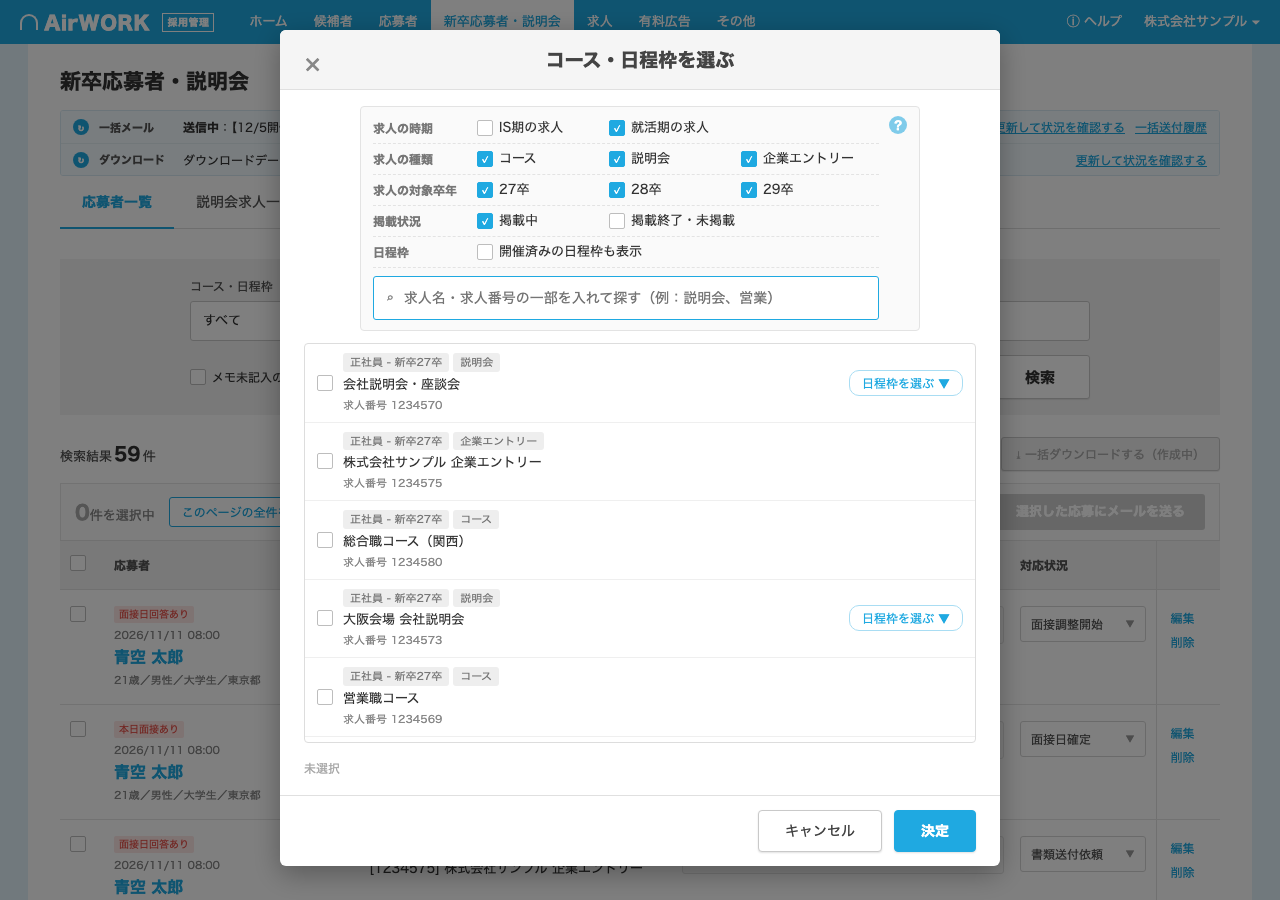
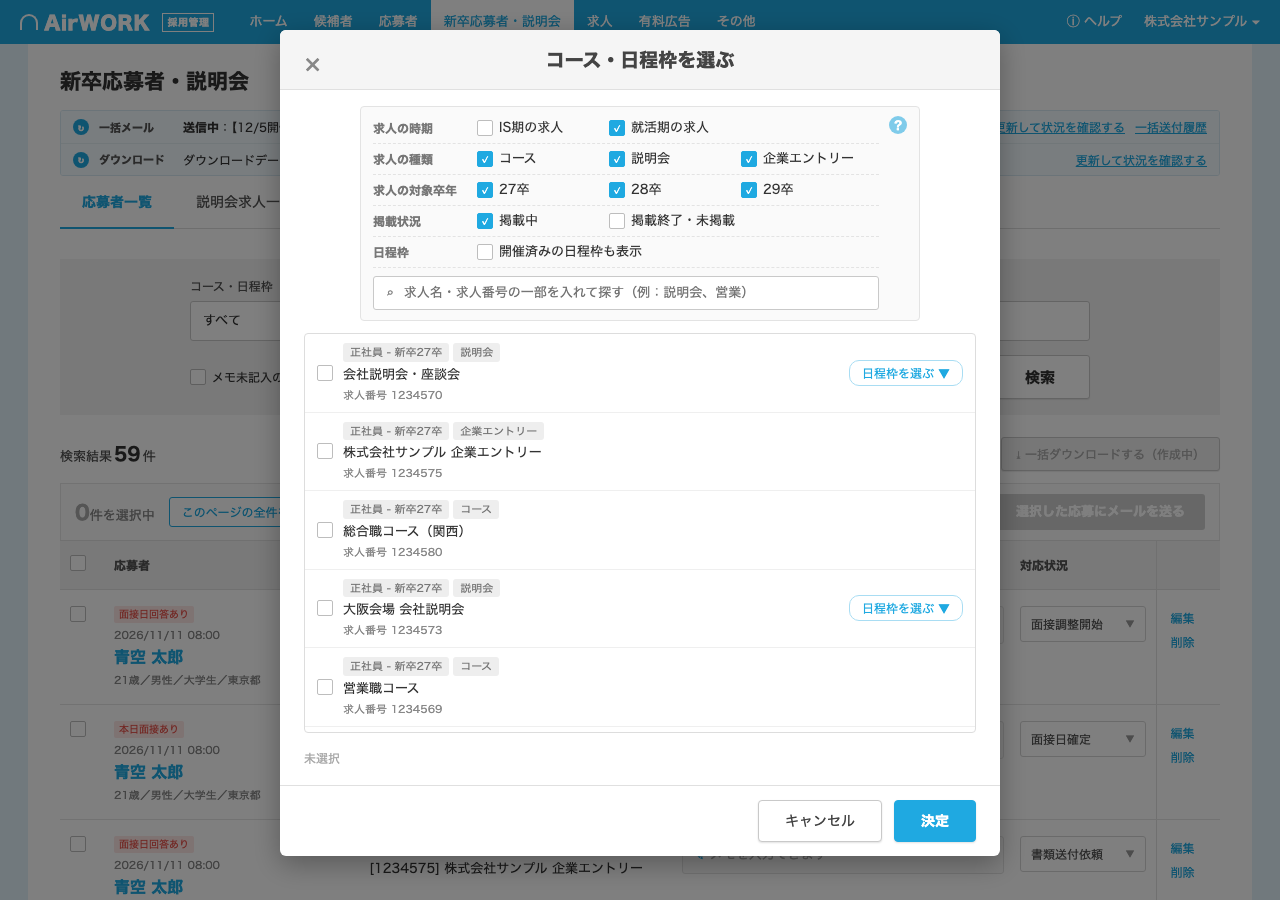
モーダルの検索窓を低く、グレー枠に

diff --git a/style.css b/style.css
@@ -363,7 +363,8 @@ body.dirty table, body.dirty .pager, body.dirty .pinfo, body.dirty .empty { opac
 .mtop { width: 560px; margin: 0 auto; }
 .mtop .desc { text-align: center; margin-left: -56px; margin-right: -56px; }
 .fbox .tools { margin: 0 0 4px; padding-top: 8px; border-top: 1px dashed #E3E3E3; }
-.fbox .srch.big { background: #FFF; }
+.fbox .srch.big { background: #FFF; height: 34px; border-color: #C9C9C9; }
+.fbox .srch.big input { font-size: 13px; }
 .fbox .ftip .qbox { left: auto; right: -10px; }
 .fbox .ftip .qbox::after { left: auto; right: 14px; }
 .mtabs { display: none !important; }
